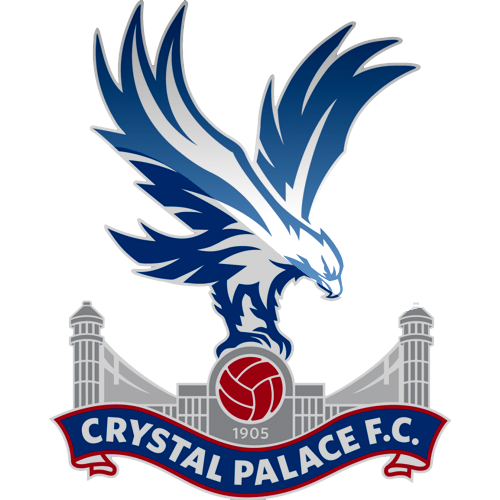
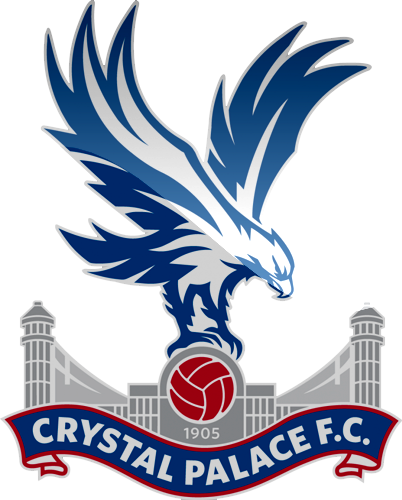
Stop clipping team crests to a circle
The crests were forced into a 28px/64px circle by border-radius: 50%,
which cropped and shrank every badge - Spurs' tall cockerel and Villa's
shield ended up as a tiny crest floating in a flat coloured disc.

- .cr now sizes itself with aspect-ratio from the logo's own ratio, so the
  box hugs the badge instead of cropping it; only the height is fixed.
- Each team carries ar + round. Round crests get no plate at all; the rest
  sit on black with a small radius, which is what their irregular
  silhouettes (cockerel, eagle, tree, shields) actually need.
- Cropped the crest PNGs to their opaque bounding boxes. They shipped with
  large transparent margins, so background-size: contain shrank the badge
  and left dead space inside the plate. Cropping lets it fill the box edge
  to edge; verified lossless and 50KB lighter.

diff --git a/index.html b/index.html
@@ -193,11 +193,21 @@
             font-size: 13px
         }
 
+        /* Crests keep their real silhouette instead of being clipped to a circle.
+           `--ar` is the logo's own aspect ratio, so the box hugs the badge and
+           `contain` fills it edge to edge - only the height is fixed. A round
+           crest needs no plate, so it gets a transparent `--cr-bg`; the rest sit
+           on black. The radius stays small so the plate never reads as a circle. */
         .cr {
             flex: none;
-            width: 28px;
             height: 28px;
-            border-radius: 50%;
+            aspect-ratio: var(--ar, 1);
+            background-color: var(--cr-bg, transparent);
+            background-image: var(--cr-img, none);
+            background-position: center;
+            background-size: contain;
+            background-repeat: no-repeat;
+            border-radius: var(--cr-r, 0px);
             display: grid;
             place-items: center;
             font-size: 10px;
@@ -207,7 +217,6 @@
         }
 
         .cr.l {
-            width: 64px;
             height: 64px;
             font-size: 20px
         }
@@ -709,9 +718,14 @@
         /* ============ LEAGUE DATA ============ */
         const LEAGUE = { name: "Hostel", accent: "League", season: "Season 2026/27", venue: "Hostel Ground" };
         
+        /* `ar` = the logo file's own width/height ratio (measured from the cropped
+           PNG), so `cr()` can size the box to the badge with no dead space.
+           `round` = true only for genuinely circular crests - those need no
+           plate behind them. Spurs is a tall cockerel, Palace an eagle, Forest a
+           tree, Villa/Fulham shields: all irregular, so all take the black plate. */
         const TEAMS = {
             SPR: {
-                name: "Spurs", c: "#2563eb", logo: "public/spurs.png", mgr: { name: "Hari", photo: "" },
+                name: "Spurs", c: "#2563eb", logo: "public/spurs.png", ar: 0.4836, round: false, mgr: { name: "Hari", photo: "" },
                 pl: [
                     ["Adithya (GK)", "GK", 1],
                     ["Famil", "DEF", 3],
@@ -725,7 +739,7 @@
                 ]
             },
             CRY: {
-                name: "Crystal Palace", c: "#dc2626", logo: "public/crystalpalace.png", mgr: { name: "Prayag", photo: "" },
+                name: "Crystal Palace", c: "#dc2626", logo: "public/crystalpalace.png", ar: 0.804, round: false, mgr: { name: "Prayag", photo: "" },
                 pl: [
                     ["Hrithesh (GK)", "GK", 1],
                     ["Dhruv", "DEF", 3],
@@ -739,7 +753,7 @@
                 ]
             },
             NFO: {
-                name: "Nottingham Forest", c: "#16a34a", logo: "public/nottinghamforest.png", mgr: { name: "Amal Jyothy", photo: "" },
+                name: "Nottingham Forest", c: "#16a34a", logo: "public/nottinghamforest.png", ar: 0.5708, round: false, mgr: { name: "Amal Jyothy", photo: "" },
                 pl: [
                     ["Mishal (GK)", "GK", 1],
                     ["Shammaz", "DEF", 3],
@@ -753,7 +767,7 @@
                 ]
             },
             FUL: {
-                name: "Fulham", c: "#eab308", logo: "public/fulham.png", mgr: { name: "Syam", photo: "" },
+                name: "Fulham", c: "#eab308", logo: "public/fulham.png", ar: 0.7507, round: false, mgr: { name: "Syam", photo: "" },
                 pl: [
                     ["Vaishnav (GK)", "GK", 1],
                     ["Rabeeh", "DEF", 3],
@@ -767,7 +781,7 @@
                 ]
             },
             BHA: {
-                name: "Brighton", c: "#0284c7", logo: "public/brighton.png", mgr: { name: "Anirudh", photo: "" },
+                name: "Brighton", c: "#0284c7", logo: "public/brighton.png", ar: 1, round: true, mgr: { name: "Anirudh", photo: "" },
                 pl: [
                     ["Adwaith (GK)", "GK", 1],
                     ["Prayag Babu", "DEF", 3],
@@ -781,7 +795,7 @@
                 ]
             },
             AVL: {
-                name: "Aston Villa", c: "#9333ea", logo: "public/astonvilla.png", mgr: { name: "Sinan", photo: "" },
+                name: "Aston Villa", c: "#9333ea", logo: "public/astonvilla.png", ar: 0.6996, round: false, mgr: { name: "Sinan", photo: "" },
                 pl: [
                     ["Yedhukrishna (GK)", "GK", 1],
                     ["Abdu", "DEF", 3],
@@ -855,13 +869,17 @@
         /* ============ APP LOGIC ============ */
         const $ = s => document.querySelector(s), app = $("#app");
         const done = m => m.hs != null;
+        /* Crests render at their own silhouette - nothing is clipped to a circle.
+           `--ar` makes the box the badge's exact shape so `contain` fills it, and
+           only a non-round badge gets the black plate; a round one is clean on its
+           own. Falls back to the team initials on the team colour if a logo is
+           missing. */
         const cr = (id, l) => {
             const t = TEAMS[id];
-            /* `contain` keeps each crest's aspect ratio (Spurs' shield is very tall) and
-               the team colour stays as the backdrop behind transparent areas. */
-            return t.logo
-                ? `<span class="cr ${l ? "l" : ""}" style="background:${t.c} center/contain no-repeat url(${t.logo})"></span>`
-                : `<span class="cr ${l ? "l" : ""}" style="background:${t.c}">${id}</span>`
+            const st = t.logo
+                ? `--ar:${t.ar};--cr-img:url(${t.logo});--cr-bg:${t.round ? "transparent" : "#000"};--cr-r:${t.round ? 0 : 6}px`
+                : `--ar:1.6;--cr-bg:${t.c};--cr-r:6px`;
+            return `<span class="cr${l ? " l" : ""}" style="${st}">${t.logo ? "" : id}</span>`
         };
         const ini = n => n.split(" ").map(w => w[0]).join("").slice(0, 2);
         const av = (n, p, c) => `<div class="av ${c || ""}" style="${p ? `background-image:url(${p})` : ""}">${p ? "" : ini(n)}</div>`;
